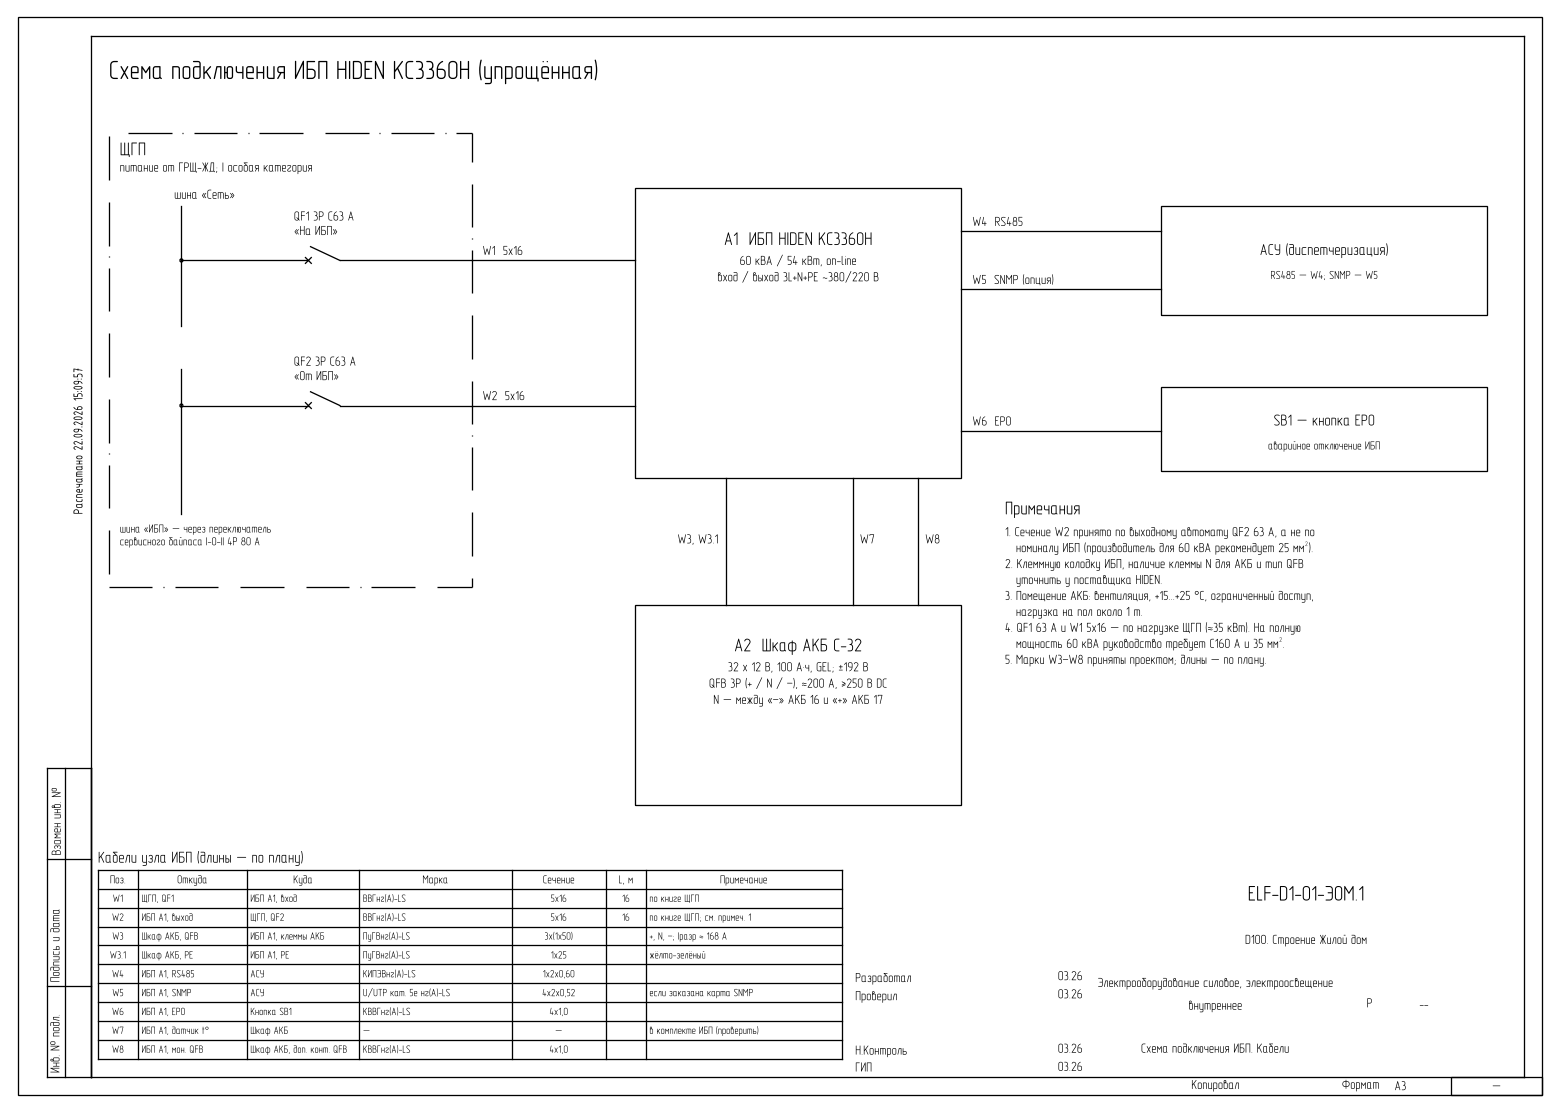
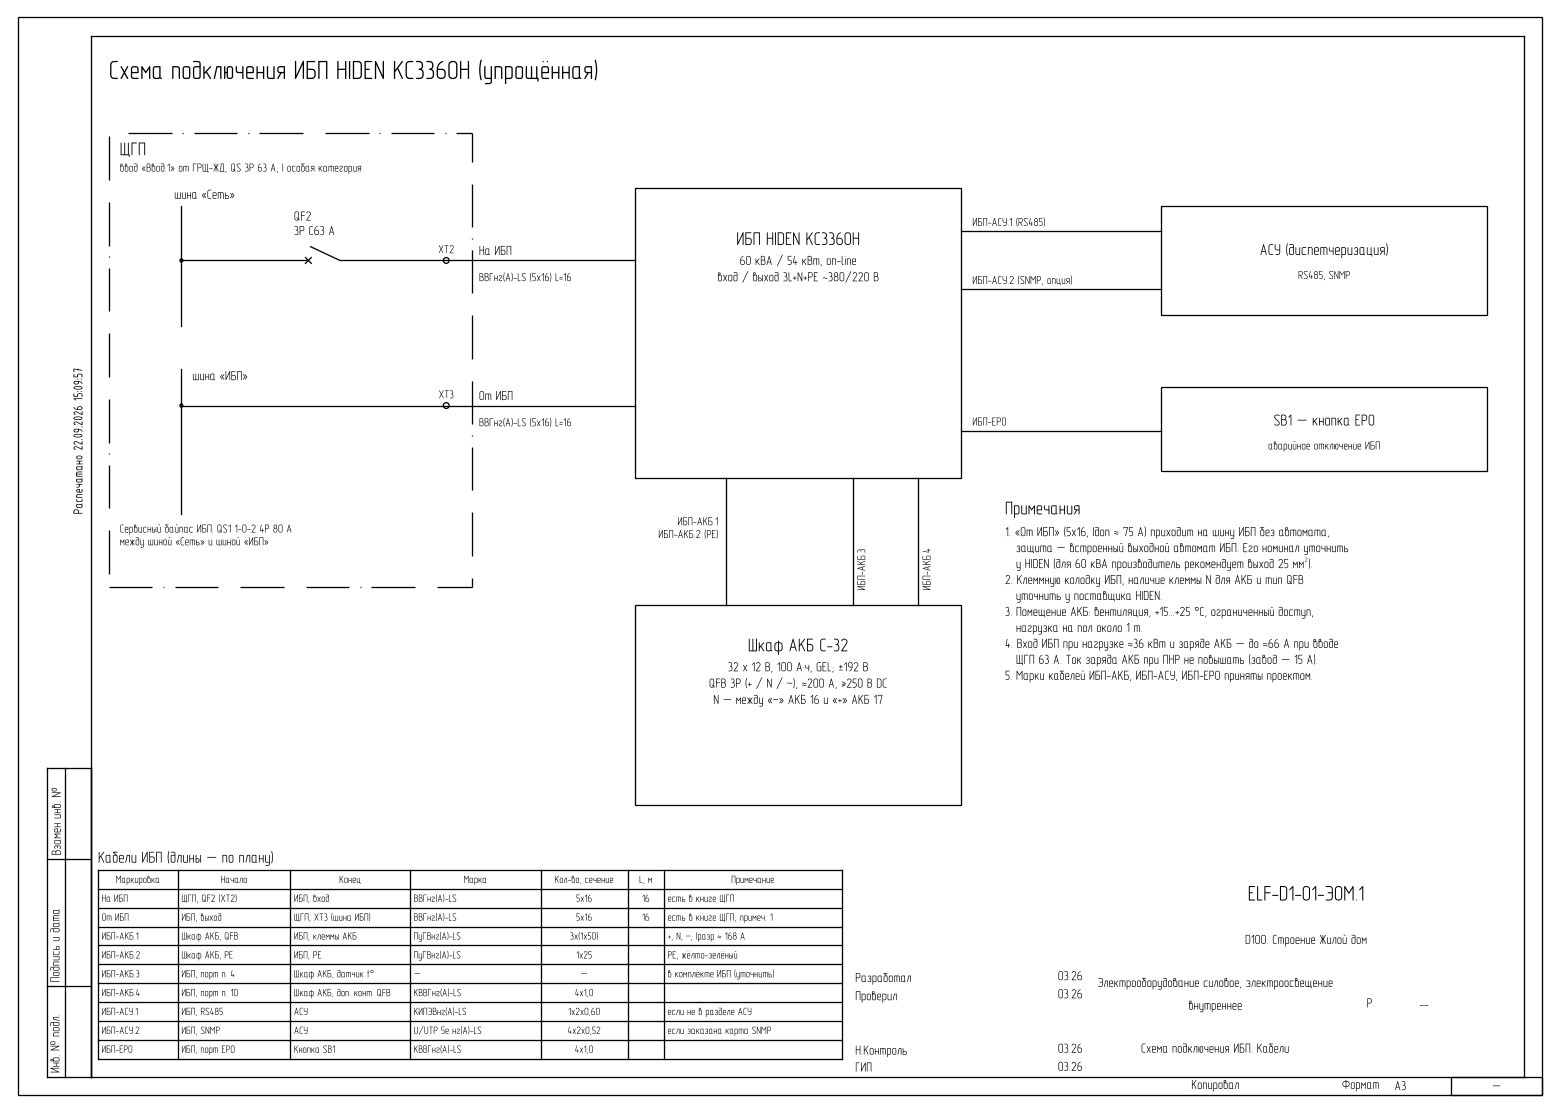
098 ЖД: узел ИБП — подписи кабелей как в книге ЩГП

diff --git a/СОСТОЯНИЕ.md b/СОСТОЯНИЕ.md
@@ -57,6 +57,10 @@ git clone https://github.com/MaratAhmetzyanov83/odnolineyka.git
   ЩГП (QF1 «На ИБП», QF2 «От ИБП» 3P C63, байпас I-0-II) → W1/W2 5х16 L=16 → ИБП A1; W3 3х(1х50) + W3.1 1х25 → шкаф АКБ; W4–W8 и таблица
   кабелей. Марки W3–W8 приняты Claude (ПуГВнг(А)-LS, КИПЭВнг(А)-LS, U/UTP 5e, КВВГнг(А)-LS 4х1,0) — проверить. Генератор `gen_ibp_simple.py`.
   Пункты ниже про 2 листа и QF1 160 А — устарели.
+- Подписи — как в книге ЩГП: маркировка = имя линии («На ИБП», «От ИБП», ИБП-АКБ.1…4, ИБП-АСУ.1/2, ИБП-EPO), «ВВГнг(А)-LS (5х16) L=16».
+  По однолинейке ЩГП: «На ИБП» — QF2 3P C63 → XT2; «От ИБП» → XT3 на шину ИБП без автомата; байпас QS1 1-0-2 80 А.
+  Нестыковки книги ЩГП (не правил, ждёт решения): спецификация п. 1.7 — 2 шт. NXB-63H C63 («На ИБП» QF1, «От ИБП» QF2), а в схеме
+  автомат один (QF2 на «На ИБП»); имя QS1 — и у вводного NH4-63, и у переключателя байпаса. «От ИБП» 5х16 без своего автомата.
 - Новый файл `…\24_ELF-D1-01-ЭОМ\Однолинейки\Узлы ИБП HIDEN KC3360H.dwg` (сервер): листы «Узел 1 ИБП» (однолинейная ГРЩ → QF1 → W1 → ИБП A1
   с Q1–Q3, выпрямителем, инвертором, статическим байпасом → QF2 → W2 → ЩГП/ЩБП; слаботочка W4–W8 по портам рис. 3-1) и «Узел 2 АКБ»
   (GB1…GB32, N между GB16/GB17, QFB 3P, W3, PE, BK1, доп. контакт QFB). Рамка и штамп — из листа ЩСПЗ-ЖД (A3, xref «Штамп»), рисовано в листе.
